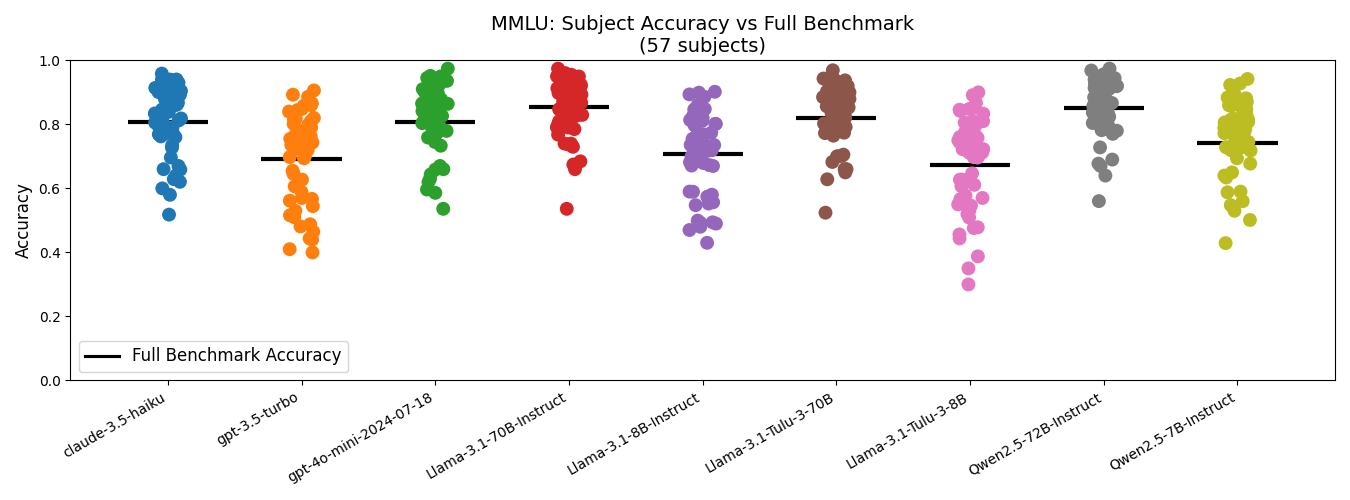
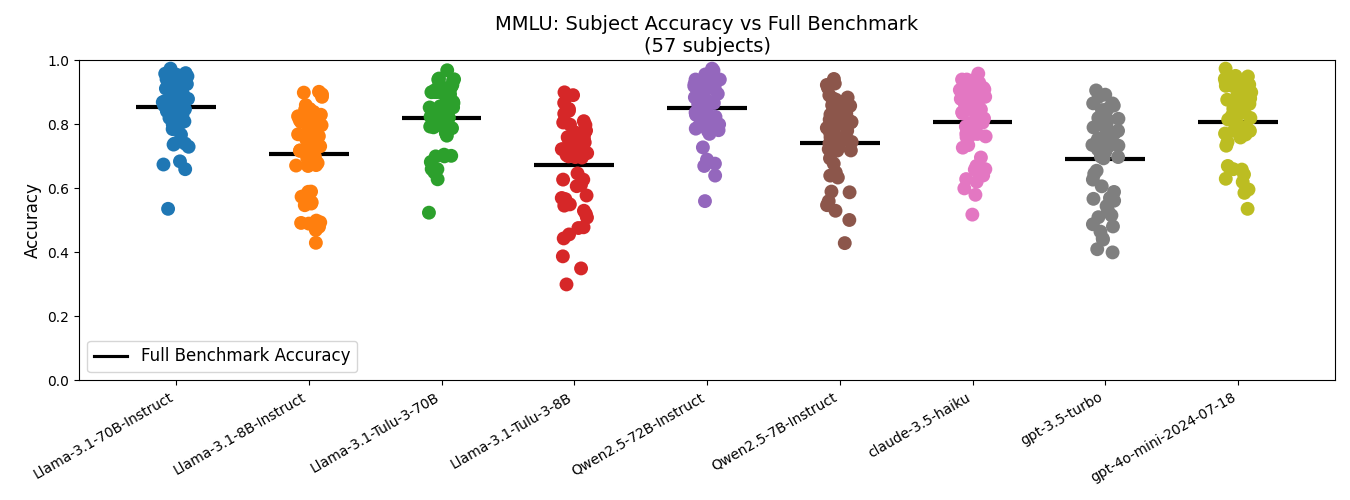
Fixed inter subset analysis subset performance stripplots

diff --git a/scripts/inter_subset_analysis.py b/scripts/inter_subset_analysis.py
@@ -1,4 +1,5 @@
 import logging
+import random
 from pathlib import Path
 
 import matplotlib.pyplot as plt
@@ -176,8 +177,21 @@ def plot_subset_performance_stripplot(
     Returns:
         The matplotlib Figure containing the strip plot.
     """
-    models = subset_scores_df.columns.tolist()
+    all_models = sorted(subset_scores_df.columns.tolist())
+
+    # Randomly sample a subset of models if there are more than 10
+    sample_size = 10
+    seed = 42
+    if len(all_models) > sample_size:
+        rng = random.Random(seed)
+        models = sorted(rng.sample(all_models, sample_size))
+        subset_scores_df = subset_scores_df[models]
+        model_scores_df = model_scores_df[models]
+    else:
+        models = all_models
+
     global_means = model_scores_df.mean().to_dict()
+    plot_num_models = len(models)
 
     long_df = subset_scores_df.reset_index().melt(
         id_vars="subset",
@@ -200,7 +214,7 @@ def plot_subset_performance_stripplot(
     size = 10
     x_means = global_means
     x_means_label = f"Full Benchmark {dataset.metric.title()}"
-    figsize = (max(8, num_models * 1.5), 5)
+    figsize = (max(8, plot_num_models * 1.5), 5)
     ylim = (0, 1)
     rotation = 30
 
@@ -220,6 +234,7 @@ def plot_subset_performance_stripplot(
         figsize=figsize,
         ylim=ylim,
         rotation=rotation,
+        num_models=None,
     )
 
 

diff --git a/scripts/intra_subset_analysis.py b/scripts/intra_subset_analysis.py
@@ -132,9 +132,13 @@ def plot_split_halves_histogram(
     q3 = data.quantile(0.75)
     xlim = (-1, 1) if min(data) < 0 else (0, 1)
     ylim = {
+        Dataset.BBH: (0, num_subsets),
         Dataset.DS_1000: (0, num_subsets),
+        Dataset.GPQA_DIAMOND: (0, num_subsets),
         Dataset.MATH: (0, num_subsets),
+        Dataset.MATH_LVL_5: (0, num_subsets),
         Dataset.MMLU: (0, num_subsets // 2),
+        Dataset.MMLU_PRO: (0, num_subsets),
     }[dataset]
 
     return plot_histogram(
@@ -259,6 +263,10 @@ def plot_bootstrap_histogram(
     q3 = data.quantile(0.75)
     xlim = (-1, 1) if min(data) < 0 else (0, 1)
     ylim = {
+        Dataset.BBH: (0, num_subsets),
+        Dataset.GPQA_DIAMOND: (0, num_subsets),
+        Dataset.MATH_LVL_5: (0, num_subsets),
+        Dataset.MMLU_PRO: (0, num_subsets),
         Dataset.DS_1000: (0, num_subsets),
         Dataset.MATH: (0, num_subsets),
         Dataset.MMLU: (0, num_subsets),
@@ -389,6 +397,10 @@ def plot_minibatch_histogram(
     q3 = data.quantile(0.75)
     xlim = (0, 1)
     ylim = {
+        Dataset.BBH: (0, num_subsets),
+        Dataset.GPQA_DIAMOND: (0, num_subsets),
+        Dataset.MATH_LVL_5: (0, num_subsets),
+        Dataset.MMLU_PRO: (0, num_subsets),
         Dataset.DS_1000: (0, num_subsets),
         Dataset.MATH: (0, num_subsets),
         Dataset.MMLU: (0, num_subsets),
